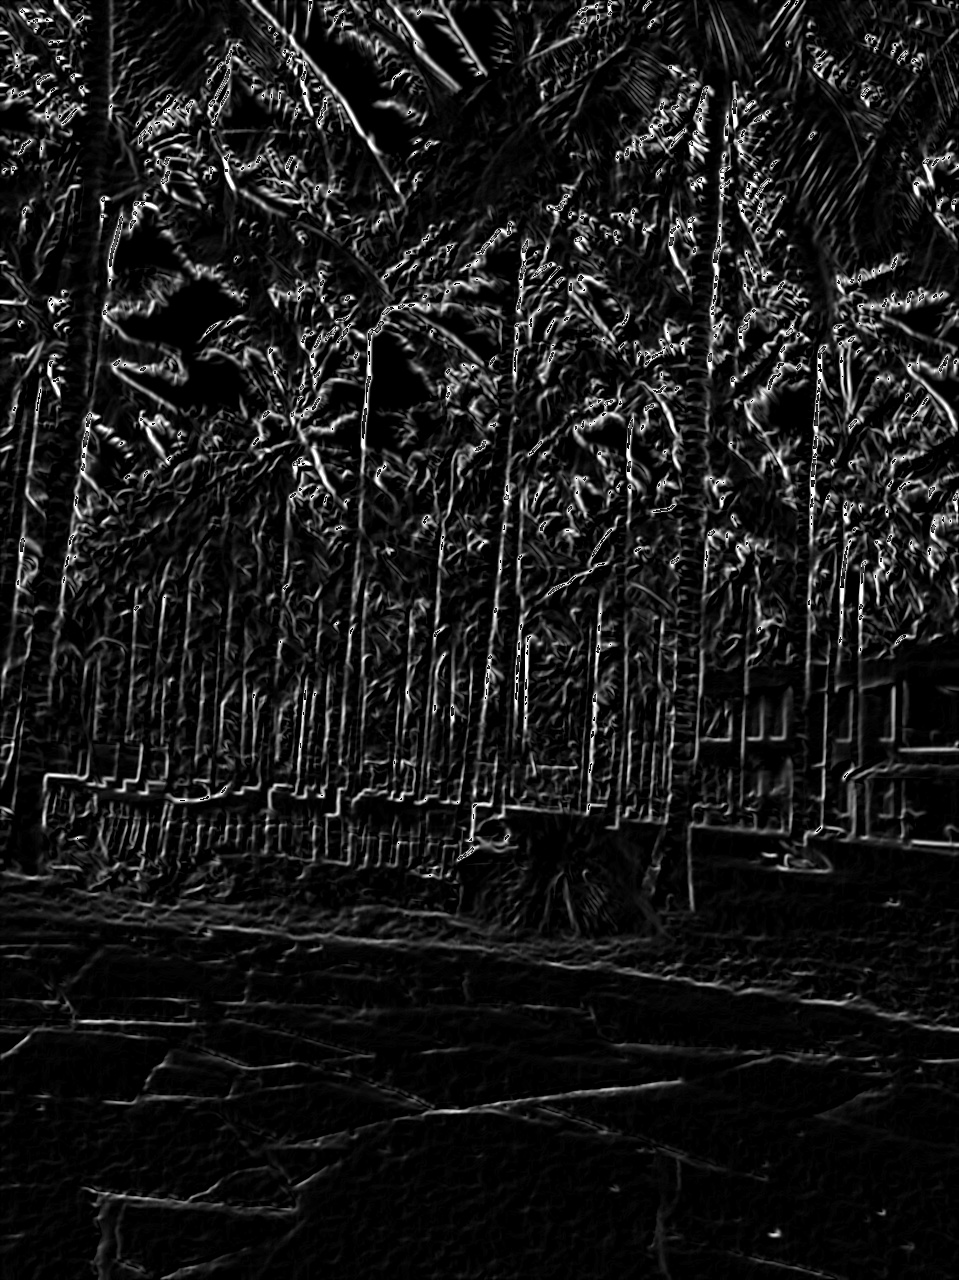
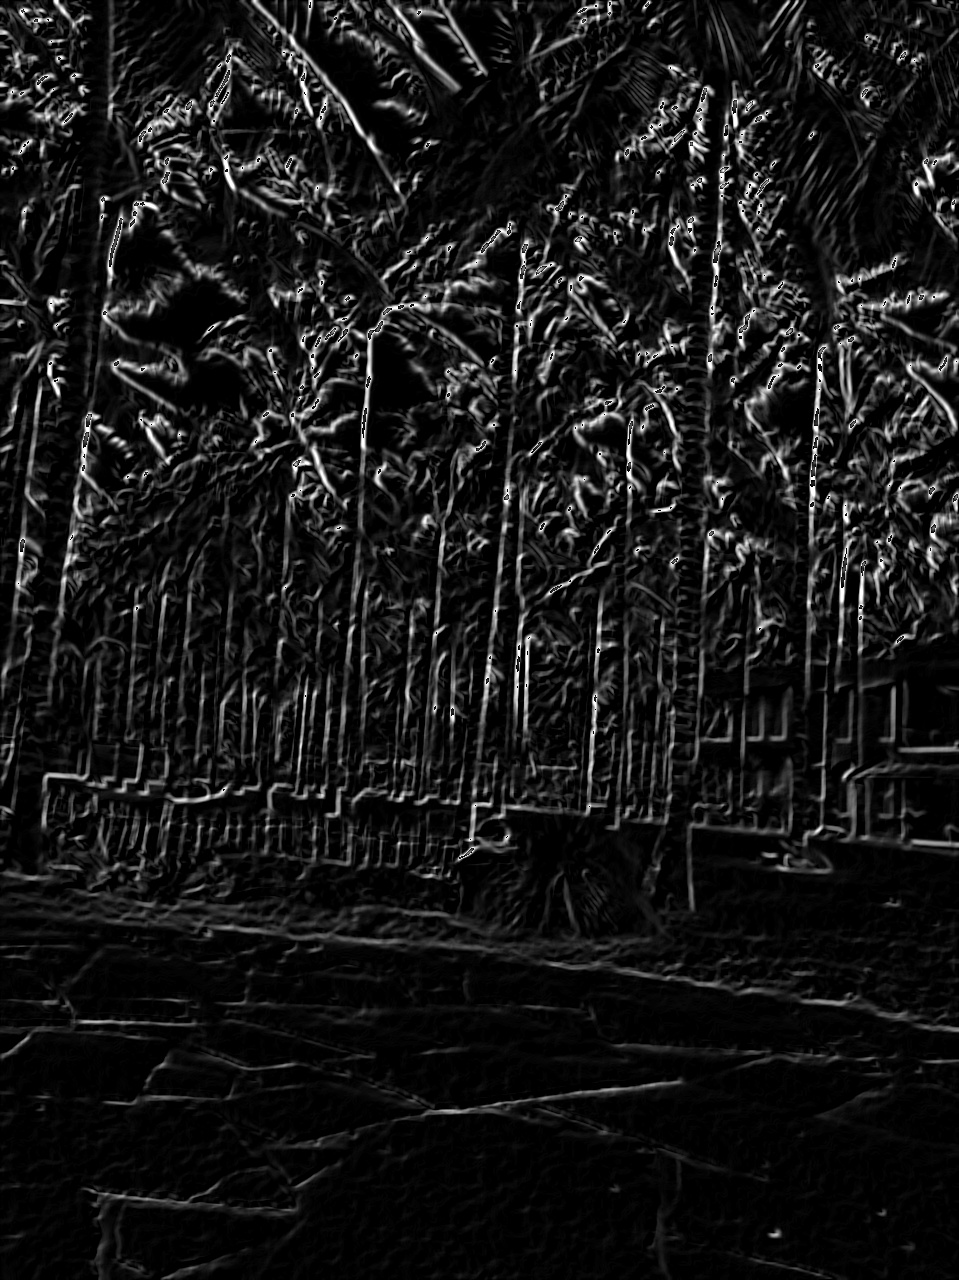
edge_mapping_thresholding_blurring

diff --git a/Code/edge_mapping.py b/Code/edge_mapping.py
@@ -6,10 +6,10 @@ import math
 img = cv2.imread("/home/aditya/DIP/DIP17_1_Images/pipe.jpeg")
 img_grey=cv2.cvtColor(img,cv2.COLOR_BGR2GRAY)
 cv2.imwrite("/home/aditya/DIP/DIP17_1_Images/pipe_GREY.jpeg",img_grey)
-g_blur = cv2.GaussianBlur(img_grey,(5,5),math.sqrt(2))
-cv2.imwrite("/home/aditya/DIP/DIP17_1_Images/pipe_blur_GREY.jpeg",g_blur)
-sobelx = cv2.Sobel(g_blur,cv2.CV_8U,1,0,ksize=3)
-sobely = cv2.Sobel(g_blur,cv2.CV_8U,0,1,ksize=3)
+blur = cv2.blur(img_grey,(5,5))
+cv2.imwrite("/home/aditya/DIP/DIP17_1_Images/pipe_blur_GREY.jpeg",blur)
+sobelx = cv2.Sobel(blur,cv2.CV_8U,1,0,ksize=3)
+sobely = cv2.Sobel(blur,cv2.CV_8U,0,1,ksize=3)
 gradient_image = sobelx + sobely
 cv2.imwrite("/home/aditya/DIP/DIP17_1_Images/pipe_blur_gradient_GREY.jpeg",gradient_image)
 (height,width) = gradient_image.shape
@@ -25,7 +25,7 @@ for h in range(height):
         if gradient_image[h][w] < threshold:
             gradient_image[h][w] = 0
 
-cv2.imwrite("/home/aditya/DIP/DIP17_1_Images/pipe_blur_gradient_GREY_threshold_33%.jpeg",gradient_image)
+cv2.imwrite("/home/aditya/DIP/DIP17_1_Images/pipe_blur_gradient_GREY_threshold_33_percent.jpeg",gradient_image)
 
 
 
